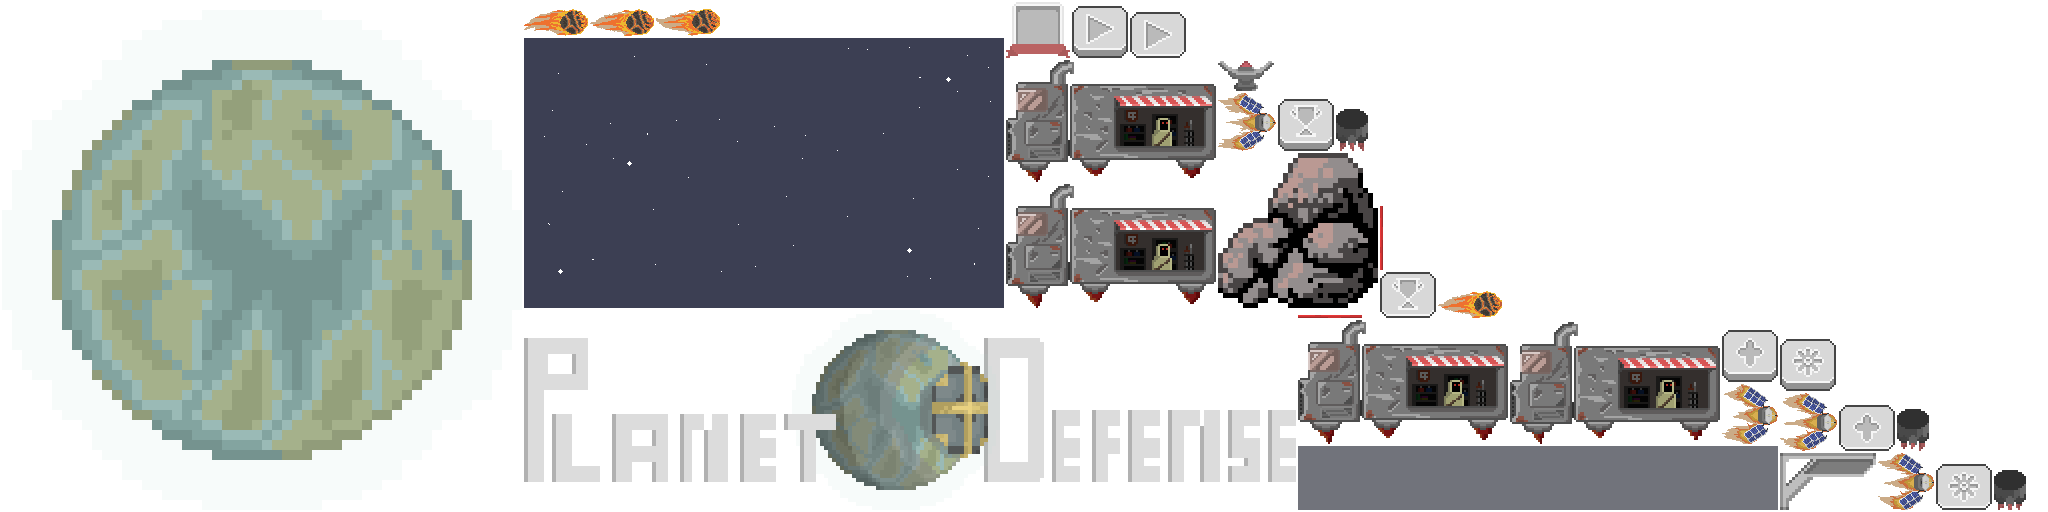
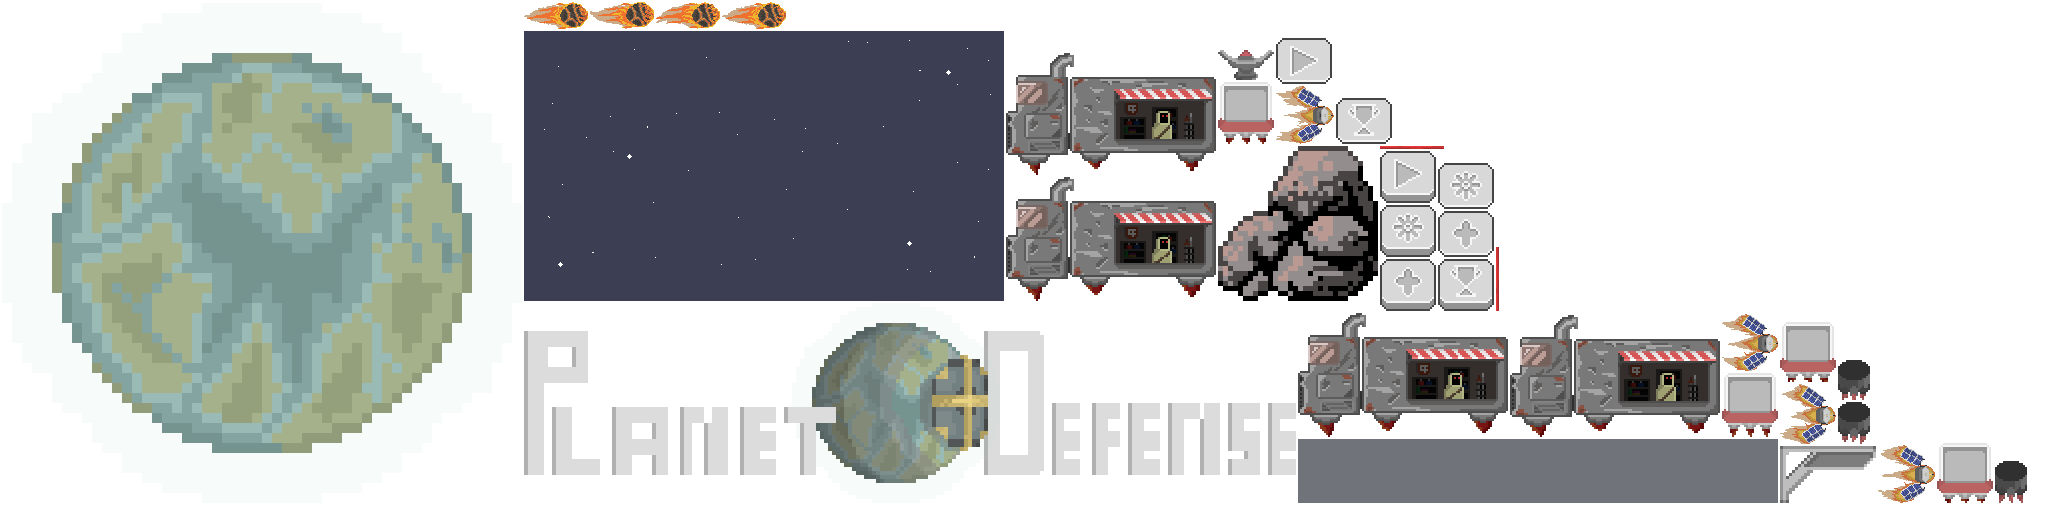
upgrade screen button upgrade and pugrade types

diff --git a/core/src/com/game/planetdefense/Screens/MenuScreen.java b/core/src/com/game/planetdefense/Screens/MenuScreen.java
@@ -60,8 +60,9 @@ public class MenuScreen implements Screen {
         }else {
             how_many_buttons = 3;
         }
-        buttons_table.setSize(stage.getWidth() * 0.12f * how_many_buttons, stage.getWidth() * 0.1f);
-        buttons_table.setPosition(stage.getWidth() / 2 - buttons_table.getWidth()/2, stage.getHeight()/2 - buttons_table.getHeight()/2);
+        buttons_table.setSize(stage.getWidth(), stage.getWidth() * 0.1f);
+        buttons_table.setPosition(0, stage.getHeight()/2 - buttons_table.getHeight()/2);
+        buttons_table.align(Align.center);
         stage.addActor(buttons_table);
 
 
@@ -82,10 +83,12 @@ public class MenuScreen implements Screen {
             title_image.setHeight(stage.getHeight() / 3 * 0.8f);
             table.add(title_image).width(title_image.getWidth()).height(title_image.getHeight());
 
+            float size_width = stage.getWidth()/10;
+            float size_height = stage.getWidth()/10;
 
             ImageButton new_game_button = new ImageButton(new TextureRegionDrawable(planetDefense.assets_manager.getButton_newGame()), new TextureRegionDrawable(planetDefense.assets_manager.getButton_newGame_hover()));
-            new_game_button.setSize(buttons_table.getWidth()/how_many_buttons, buttons_table.getHeight());
-            new_game_button.getImageCell().width(buttons_table.getWidth()/how_many_buttons).height(buttons_table.getHeight());
+            new_game_button.setSize(size_width, size_height);
+            new_game_button.getImageCell().width(size_width).height(size_height);
             new_game_button.getImage().setScaling(Scaling.stretch);
             new_game_button.addListener(new ChangeListener() {
                 @Override
@@ -96,8 +99,8 @@ public class MenuScreen implements Screen {
             });
 
             ImageButton options_button = new ImageButton(new TextureRegionDrawable(planetDefense.assets_manager.getButton_options()), new TextureRegionDrawable(planetDefense.assets_manager.getButton_options_hover()));
-            options_button.setSize(buttons_table.getWidth()/how_many_buttons, buttons_table.getHeight());
-            options_button.getImageCell().width(buttons_table.getWidth()/how_many_buttons).height(buttons_table.getHeight());
+            options_button.setSize(size_width, size_height);
+            options_button.getImageCell().width(size_width).height(size_height);
             options_button.getImage().setScaling(Scaling.stretch);
             options_button.addListener(new ChangeListener() {
                 @Override
@@ -109,8 +112,8 @@ public class MenuScreen implements Screen {
 
 
             ImageButton high_score_button = new ImageButton(new TextureRegionDrawable(planetDefense.assets_manager.getButton_highscore()), new TextureRegionDrawable(planetDefense.assets_manager.getButton_highscore_hover()));
-            high_score_button.setSize(buttons_table.getWidth()/how_many_buttons, buttons_table.getHeight());
-            high_score_button.getImageCell().width(buttons_table.getWidth()/how_many_buttons).height(buttons_table.getHeight());
+            high_score_button.setSize(size_width, size_height);
+            high_score_button.getImageCell().width(size_width).height(size_height);
             high_score_button.getImage().setScaling(Scaling.stretch);
             high_score_button.addListener(new ChangeListener() {
                 @Override
@@ -123,8 +126,8 @@ public class MenuScreen implements Screen {
 
             if (UserData.getInstance().isHasPlaying()) {
                 ImageButton continue_button = new ImageButton(new TextureRegionDrawable(planetDefense.assets_manager.getButton_continue()), new TextureRegionDrawable(planetDefense.assets_manager.getButton_continue_hover()));
-                continue_button.setSize(buttons_table.getWidth()/how_many_buttons, buttons_table.getHeight());
-                continue_button.getImageCell().width(buttons_table.getWidth()/how_many_buttons).height(buttons_table.getHeight());
+                continue_button.setSize(size_width, size_height);
+                continue_button.getImageCell().width(size_width).height(size_height);
                 continue_button.getImage().setScaling(Scaling.stretch);
                 continue_button.addListener(new ChangeListener() {
                     @Override
@@ -132,12 +135,12 @@ public class MenuScreen implements Screen {
                         planetDefense.changeScreen(new GameScreen(planetDefense), menuScreen);
                     }
                 });
-                buttons_table.add(continue_button).height(buttons_table.getHeight()).width(buttons_table.getWidth()/how_many_buttons);
+                buttons_table.add(continue_button).height(size_height).width(size_width);
             }
 
-            buttons_table.add(new_game_button).height(buttons_table.getHeight()).width(buttons_table.getWidth()/how_many_buttons);
-            buttons_table.add(options_button).height(buttons_table.getHeight()).width(buttons_table.getWidth()/how_many_buttons);
-            buttons_table.add(high_score_button).height(buttons_table.getHeight()).width(buttons_table.getWidth()/how_many_buttons);
+            buttons_table.add(new_game_button).height(size_height).width(size_width);
+            buttons_table.add(options_button).height(size_height).width(size_width);
+            buttons_table.add(high_score_button).height(size_height).width(size_width);
         }
 
 

diff --git a/core/src/com/game/planetdefense/Utils/UpgradeButton.java b/core/src/com/game/planetdefense/Utils/UpgradeButton.java
@@ -1,0 +1,78 @@
+package com.game.planetdefense.Utils;
+
+import com.badlogic.gdx.Gdx;
+import com.badlogic.gdx.graphics.Color;
+import com.badlogic.gdx.graphics.g2d.Animation;
+import com.badlogic.gdx.graphics.g2d.Batch;
+import com.badlogic.gdx.graphics.g2d.TextureRegion;
+import com.badlogic.gdx.scenes.scene2d.Actor;
+import com.badlogic.gdx.scenes.scene2d.ui.Button;
+import com.badlogic.gdx.scenes.scene2d.ui.Label;
+import com.badlogic.gdx.scenes.scene2d.utils.ChangeListener;
+import com.badlogic.gdx.scenes.scene2d.utils.TextureRegionDrawable;
+import com.badlogic.gdx.utils.Align;
+import com.game.planetdefense.Enums.UpgradeType;
+import com.game.planetdefense.Utils.Managers.AssetsManager;
+import com.game.planetdefense.Utils.Singletons.UserData;
+
+public class UpgradeButton extends Button {
+
+    private UpgradeType upgrade_type;
+    private Animation<TextureRegion> button_animation;
+    private Label price_label;
+    private TextureRegionDrawable background;
+    private float state_time;
+    private float price;
+
+    public UpgradeButton(AssetsManager assetsManager, UpgradeType upgradeType, float width, float height) {
+        super(new TextureRegionDrawable(assetsManager.getUpgrade_button_animation().getKeyFrame(0, true)));
+        this.setSize(width,height);
+        this.align(Align.bottom);
+        state_time = 0f;
+        this.upgrade_type = upgradeType;
+        this.button_animation = assetsManager.getUpgrade_button_animation();
+        background = new TextureRegionDrawable(button_animation.getKeyFrame(state_time, true));
+
+        //label
+        getPrice(upgradeType);
+        price_label = new Label("",new Label.LabelStyle(assetsManager.getGame_font(), Color.WHITE));
+        price_label.setText("" + (int)price);
+        price_label.setAlignment(Align.center);
+        float font_scale = Gdx.graphics.getWidth() / Gdx.graphics.getHeight();
+        price_label.setFontScale(font_scale/ 1.5f);
+        this.add(price_label).padBottom(this.getHeight() * 0.2f).height(this.getHeight() * 0.15f);
+
+        this.addListener(new ChangeListener() {
+            @Override
+            public void changed(ChangeEvent event, Actor actor) {
+                if(UserData.getInstance().getMoney() >= price){
+                    buy();
+                }
+            }
+        });
+    }
+
+    @Override
+    public void draw(Batch batch, float parentAlpha) {
+        super.draw(batch, parentAlpha);
+    }
+
+    @Override
+    public void act(float delta) {
+        state_time += delta;
+        background.setRegion(button_animation.getKeyFrame(state_time, true));
+        this.getStyle().up = background;
+        //this.setStyle(this.getStyle());
+        super.act(delta);
+    }
+
+    private void getPrice(UpgradeType upgradeType){
+        price = upgradeType.getPrice();
+    }
+
+    private void buy(){
+        UserData.getInstance().setMoney(UserData.getInstance().getMoney() - upgrade_type.getPrice());
+        upgrade_type.addUpgradeLvl();
+        Gdx.app.log("Upgrade", "" + upgrade_type.getUpgradeLvl());
+    }
+}

diff --git a/core/src/com/game/planetdefense/Screens/UpgradeScreen.java b/core/src/com/game/planetdefense/Screens/UpgradeScreen.java
@@ -5,6 +5,7 @@ import com.badlogic.gdx.Input;
 import com.badlogic.gdx.Screen;
 import com.badlogic.gdx.graphics.Color;
 import com.badlogic.gdx.graphics.GL20;
+import com.badlogic.gdx.math.MathUtils;
 import com.badlogic.gdx.scenes.scene2d.Actor;
 import com.badlogic.gdx.scenes.scene2d.Stage;
 import com.badlogic.gdx.scenes.scene2d.ui.Image;
@@ -14,8 +15,10 @@ import com.badlogic.gdx.scenes.scene2d.utils.ChangeListener;
 import com.badlogic.gdx.scenes.scene2d.utils.TextureRegionDrawable;
 import com.badlogic.gdx.utils.Scaling;
 import com.badlogic.gdx.utils.viewport.ScreenViewport;
+import com.game.planetdefense.Enums.UpgradeType;
 import com.game.planetdefense.PlanetDefense;
 import com.game.planetdefense.Utils.Singletons.UserData;
+import com.game.planetdefense.Utils.UpgradeButton;
 
 
 public class UpgradeScreen implements Screen {
@@ -45,7 +48,7 @@ public class UpgradeScreen implements Screen {
         counter_image.setSize(stage.getWidth()/3.5f, stage.getHeight()/3.5f);
         counter_image.setPosition(0, stage.getHeight() - counter_image.getHeight());
 
-        money_label = new Label("" + (int)UserData.getInstance().getMoney(), new Label.LabelStyle(planetDefense.assets_manager.getGame_font(), Color.WHITE));
+        money_label = new Label("" + MathUtils.floor(UserData.getInstance().getMoney()), new Label.LabelStyle(planetDefense.assets_manager.getGame_font(), Color.WHITE));
         money_label.setSize(counter_image.getWidth() * 0.5f, counter_image.getHeight() * 0.3f);
         money_label.setPosition(counter_image.getX() + (counter_image.getWidth() - money_label.getWidth() - counter_image.getWidth() * 0.1f), counter_image.getY() + counter_image.getHeight() - money_label.getHeight() - (counter_image.getHeight() * 0.1f));
 
@@ -89,6 +92,14 @@ public class UpgradeScreen implements Screen {
         //start_game_button.debug();
         stage.addActor(start_game_button);
 
+
+        {//upgrades
+            UpgradeButton dmgUpgrade = new UpgradeButton(planetDefense.assets_manager, UpgradeType.DmgBonus, stage.getWidth()/7f,  stage.getWidth()/7f);
+            dmgUpgrade.setPosition(stage.getWidth()/2, stage.getHeight()/3);
+            dmgUpgrade.debugAll();
+            stage.addActor(dmgUpgrade);
+        }
+
     }
 
     @Override
@@ -101,6 +112,7 @@ public class UpgradeScreen implements Screen {
         Gdx.gl.glClearColor(1, 1, 1, 1);
         Gdx.gl.glClear(GL20.GL_COLOR_BUFFER_BIT);
         stage.act(Math.min(Gdx.graphics.getDeltaTime(), 1 / 60f));
+        money_label.setText("" + MathUtils.floor(UserData.getInstance().getMoney()));
         shop_guy_image.setDrawable(new TextureRegionDrawable(planetDefense.assets_manager.getShopGuyAnimation().getKeyFrame(state_time, true)));
         stage.draw();
         state_time += delta;

diff --git a/core/src/com/game/planetdefense/Utils/Singletons/UserData.java b/core/src/com/game/planetdefense/Utils/Singletons/UserData.java
@@ -2,6 +2,7 @@ package com.game.planetdefense.Utils.Singletons;
 
 import com.badlogic.gdx.Gdx;
 import com.badlogic.gdx.Preferences;
+import com.game.planetdefense.Enums.UpgradeType;
 
 public class UserData {
     private static final UserData ourInstance = new UserData();
@@ -10,9 +11,6 @@ public class UserData {
     private float money;
     private int high_wave;
     private boolean hasPlaying;
-
-    private float shoot_speed_multiplier;
-    private float bonus_shoot_damage;
 
     public static UserData getInstance() {
         return ourInstance;
@@ -27,16 +25,12 @@ public class UserData {
         money = prefs.getFloat("money", 0);
         high_wave = prefs.getInteger("highWave", 0);
         hasPlaying = prefs.getBoolean("hasPlaying", false);
-        shoot_speed_multiplier = prefs.getFloat("shoot_speed_multiplier", 1);
-        bonus_shoot_damage = prefs.getFloat("bonus_shoot_damage", 0);
     }
 
     public void updateUserData(){
         prefs.putFloat("money",money);
         prefs.putInteger("highWave", high_wave);
         prefs.putBoolean("hasPlaying", hasPlaying);
-        prefs.putFloat("shoot_speed_multiplier", shoot_speed_multiplier);
-        prefs.putFloat("bonus_shoot_damage", bonus_shoot_damage);
         prefs.flush();
     }
 
@@ -74,19 +68,12 @@ public class UserData {
         this.hasPlaying = hasPlaying;
     }
 
-    public float getShoot_speed_multiplier() {
-        return shoot_speed_multiplier;
+    public void addUpgradeLvl(UpgradeType upgradeType){
+        prefs.putInteger(upgradeType.name(), prefs.getInteger(upgradeType.name(), 0) + 1);
+        prefs.flush();
     }
 
-    public void setShoot_speed_multiplier(float shoot_speed_multiplier) {
-        this.shoot_speed_multiplier = shoot_speed_multiplier;
-    }
-
-    public float getBonus_shoot_damage() {
-        return bonus_shoot_damage;
-    }
-
-    public void setBonus_shoot_damage(float bonus_shoot_damage) {
-        this.bonus_shoot_damage = bonus_shoot_damage;
+    public int getUpgradeLvl(UpgradeType upgradeType){
+        return prefs.getInteger(upgradeType.name(), 0);
     }
 }

diff --git a/core/src/com/game/planetdefense/Utils/Managers/AssetsManager.java b/core/src/com/game/planetdefense/Utils/Managers/AssetsManager.java
@@ -16,6 +16,7 @@ import com.game.planetdefense.Utils.StaticUtils;
 public class AssetsManager extends AssetManager {
 
     private BitmapFont game_font;
+    private BitmapFont small_game_font;
 
     private TextureAtlas atlas;
 
@@ -24,6 +25,7 @@ public class AssetsManager extends AssetManager {
     private Animation<TextureRegion> meteor_animation;
     private Animation<TextureRegion> satellite_animation;
     private Animation<TextureRegion> shop_guy_animation;
+    private Animation<TextureRegion> upgrade_button_animation;
 
     public AssetsManager() {
         super();
@@ -61,10 +63,16 @@ public class AssetsManager extends AssetManager {
         laser_launcher_body_animation = new Animation<TextureRegion>(0.099f, atlas.findRegions("laserlauncher_body"), Animation.PlayMode.LOOP);
         meteor_animation = new Animation<TextureRegion>(0.099f, atlas.findRegions("meteor"), Animation.PlayMode.LOOP);
         satellite_animation = new Animation<TextureRegion>(0.099f, atlas.findRegions("satellite"), Animation.PlayMode.LOOP);
+        upgrade_button_animation = new Animation<TextureRegion>(0.2f, atlas.findRegions("upgrade_button"), Animation.PlayMode.LOOP);
         shop_guy_animation = new Animation<TextureRegion>(0.2f, atlas.findRegions("shopguy"), Animation.PlayMode.LOOP);
+
     }
 
     public BitmapFont getGame_font() {
+        return game_font;
+    }
+
+    public BitmapFont getSmall_game_font(){
         return game_font;
     }
 
@@ -148,7 +156,7 @@ public class AssetsManager extends AssetManager {
         return shop_guy_animation;
     }
 
-    public TextureRegion getUpgradeButtonTexture(){
-        return atlas.findRegion("upgrade_button");
+    public Animation<TextureRegion> getUpgrade_button_animation(){
+        return upgrade_button_animation;
     }
 }

diff --git a/core/src/com/game/planetdefense/Actors/Missile.java b/core/src/com/game/planetdefense/Actors/Missile.java
@@ -10,8 +10,8 @@ import com.badlogic.gdx.math.Vector2;
 import com.badlogic.gdx.scenes.scene2d.Actor;
 import com.badlogic.gdx.utils.Pool;
 import com.game.planetdefense.Enums.LaserType;
+import com.game.planetdefense.Enums.UpgradeType;
 import com.game.planetdefense.Utils.Managers.AssetsManager;
-import com.game.planetdefense.Utils.Singletons.UserData;
 
 public class Missile extends Actor implements Pool.Poolable {
 
@@ -95,7 +95,8 @@ public class Missile extends Actor implements Pool.Poolable {
         this.sprite.setBounds(this.position.getX(), this.position.getY(), this.position.getWidth(), this.position.getHeight());
         this.sprite.setOrigin(this.sprite.getWidth()/2, 0);
         rotateToTarget();
-        this.damage = 5f + UserData.getInstance().getBonus_shoot_damage();
+        this.damage = 5f + (UpgradeType.DmgBonus.getUpgradeLvl() * UpgradeType.DmgBonus.getUpgradeValue());
+        Gdx.app.log("DMG", ""+damage);
         Gdx.app.log("Missile position", " " + sprite.getX() + " " + sprite.getY());
     }
 

diff --git a/core/src/com/game/planetdefense/Enums/UpgradeType.java b/core/src/com/game/planetdefense/Enums/UpgradeType.java
@@ -1,0 +1,37 @@
+package com.game.planetdefense.Enums;
+
+import com.game.planetdefense.Utils.Singletons.UserData;
+
+public enum UpgradeType {
+    LaserUpgrade, DmgBonus;
+
+    public float getPrice(){
+        switch(this){
+            case LaserUpgrade:
+                return 1000f;
+            case DmgBonus:
+                return 50f;
+            default:
+                return 0f;
+        }
+    }
+
+    public void addUpgradeLvl(){
+        UserData.getInstance().addUpgradeLvl(this);
+    }
+
+    public int getUpgradeLvl(){
+        return UserData.getInstance().getUpgradeLvl(this);
+    }
+
+    public float getUpgradeValue(){
+        switch(this){
+            case LaserUpgrade:
+                return 1000f;
+            case DmgBonus:
+                return 1f;
+            default:
+                return 0f;
+        }
+    }
+}

diff --git a/core/src/com/game/planetdefense/Screens/LoadingScreen.java b/core/src/com/game/planetdefense/Screens/LoadingScreen.java
@@ -2,7 +2,6 @@ package com.game.planetdefense.Screens;
 
 import com.badlogic.gdx.Screen;
 import com.game.planetdefense.PlanetDefense;
-import com.game.planetdefense.Utils.StaticUtils;
 
 public class LoadingScreen implements Screen {
 
@@ -22,7 +21,7 @@ public class LoadingScreen implements Screen {
     public void render(float delta) {
         if(planetDefense.assets_manager.update()){
             planetDefense.assets_manager.getAssets();
-            planetDefense.changeScreen(new MenuScreen(planetDefense), this);
+            planetDefense.changeScreen(new UpgradeScreen(planetDefense), this);
         }
     }
 

diff --git a/core/src/com/game/planetdefense/Utils/StaticUtils.java b/core/src/com/game/planetdefense/Utils/StaticUtils.java
@@ -6,6 +6,7 @@ public class StaticUtils {
 
     //GAME UTILS
     public static final float FONT_SIZE_BASE = 45f;
+    public static final float FONT_SIZE_SMALL = 35f;
     ////////////////
 
 
